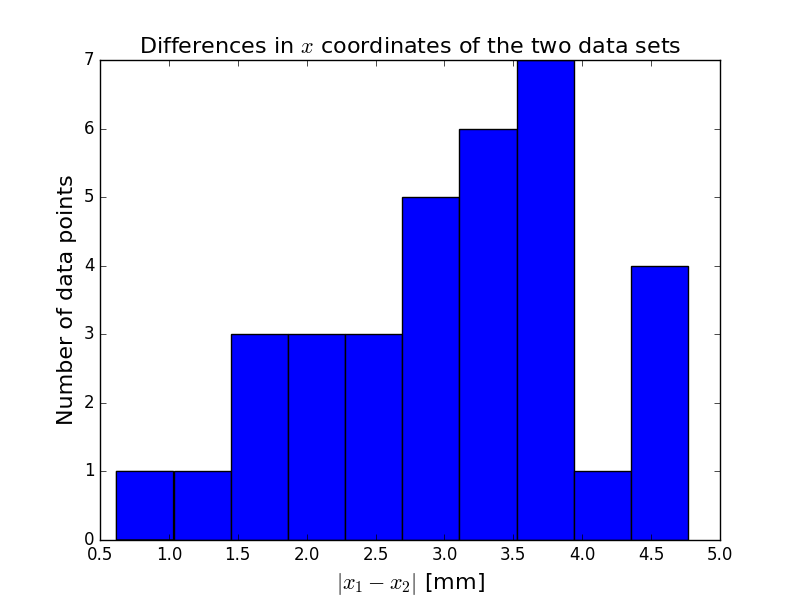
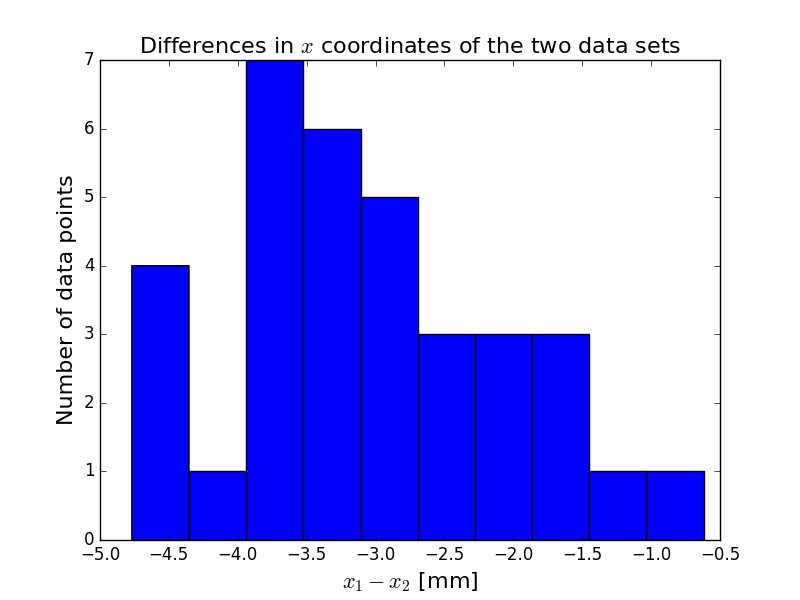
fixed histograms

diff --git a/logbook/postings/20171106_photomodeler_repeatability/index.md b/logbook/postings/20171106_photomodeler_repeatability/index.md
@@ -34,10 +34,11 @@ For simplicity, I have also written another code `/bmxproject/dish/position_diff
 
 **Difference in x coordinate**
 
-The x differences in mm are [ 1.472  2.79   3.73   2.378  3.436  3.917  2.198  3.306  4.57   1.998
-  3.126  3.537  2.571  3.821  4.7    2.982  3.509  3.662  1.377  2.901
-  4.471  2.621  3.661  3.705  2.164  3.516  4.339  3.522  4.769  0.619
-  1.664  2.94   1.55   2.866]
+The x differences in mm are [-1.472 -2.79  -3.73  -2.378 -3.436 -3.917 -2.198 -3.306 -4.57  -1.998
+ -3.126 -3.537 -2.571 -3.821 -4.7   -2.982 -3.509 -3.662 -1.377 -2.901
+ -4.471 -2.621 -3.661 -3.705 -2.164 -3.516 -4.339 -3.522 -4.769 -0.619
+ -1.664 -2.94  -1.55  -2.866]
+
 
 ![x](16Oct2017_dish_surface_subset1.txt-16Oct2017_dish_surface_subset2.txt_x_differences_histogram.png)
 
@@ -45,17 +46,19 @@ The x differences in mm are [ 1.472  2.79   3.73   2.378  3.436  3.917  2.198  3
 
 The y differences in mm are [ 0.556  1.633  3.361  1.082  3.33   4.967  1.134  2.289  4.992  0.59
   2.104  4.335  1.374  2.406  3.981  1.215  3.253  6.126  0.57   1.306
-  2.609  0.376  1.875  4.331  0.171  0.5    1.513  0.172  0.03   0.271
+  2.609  0.376  1.875  4.331  0.171  0.5    1.513 -0.172 -0.03   0.271
   0.663  1.134  0.511  0.968]
+
 
 ![y](16Oct2017_dish_surface_subset1.txt-16Oct2017_dish_surface_subset2.txt_y_differences_histogram.png)
 
 **Difference in z coordinate**
 
-The z differences in mm are [ 0.256  0.962  0.927  0.702  1.342  1.012  0.654  0.736  0.285  0.263
-  1.254  1.575  0.635  0.259  0.078  0.989  1.682  2.22   0.336  0.21
-  0.403  0.189  1.623  2.135  0.469  0.79   2.062  0.05   1.384  0.107
-  0.246  0.159  0.028  0.616]
+The z differences in mm are [-0.256 -0.962 -0.927 -0.702 -1.342 -1.012 -0.654 -0.736 -0.285 -0.263
+ -1.254 -1.575 -0.635 -0.259  0.078 -0.989 -1.682 -2.22  -0.336 -0.21
+  0.403 -0.189 -1.623 -2.135  0.469 -0.79  -2.062  0.05  -1.384 -0.107
+ -0.246  0.159  0.028  0.616]
+
 
 ![z](16Oct2017_dish_surface_subset1.txt-16Oct2017_dish_surface_subset2.txt_z_differences_histogram.png)
 
